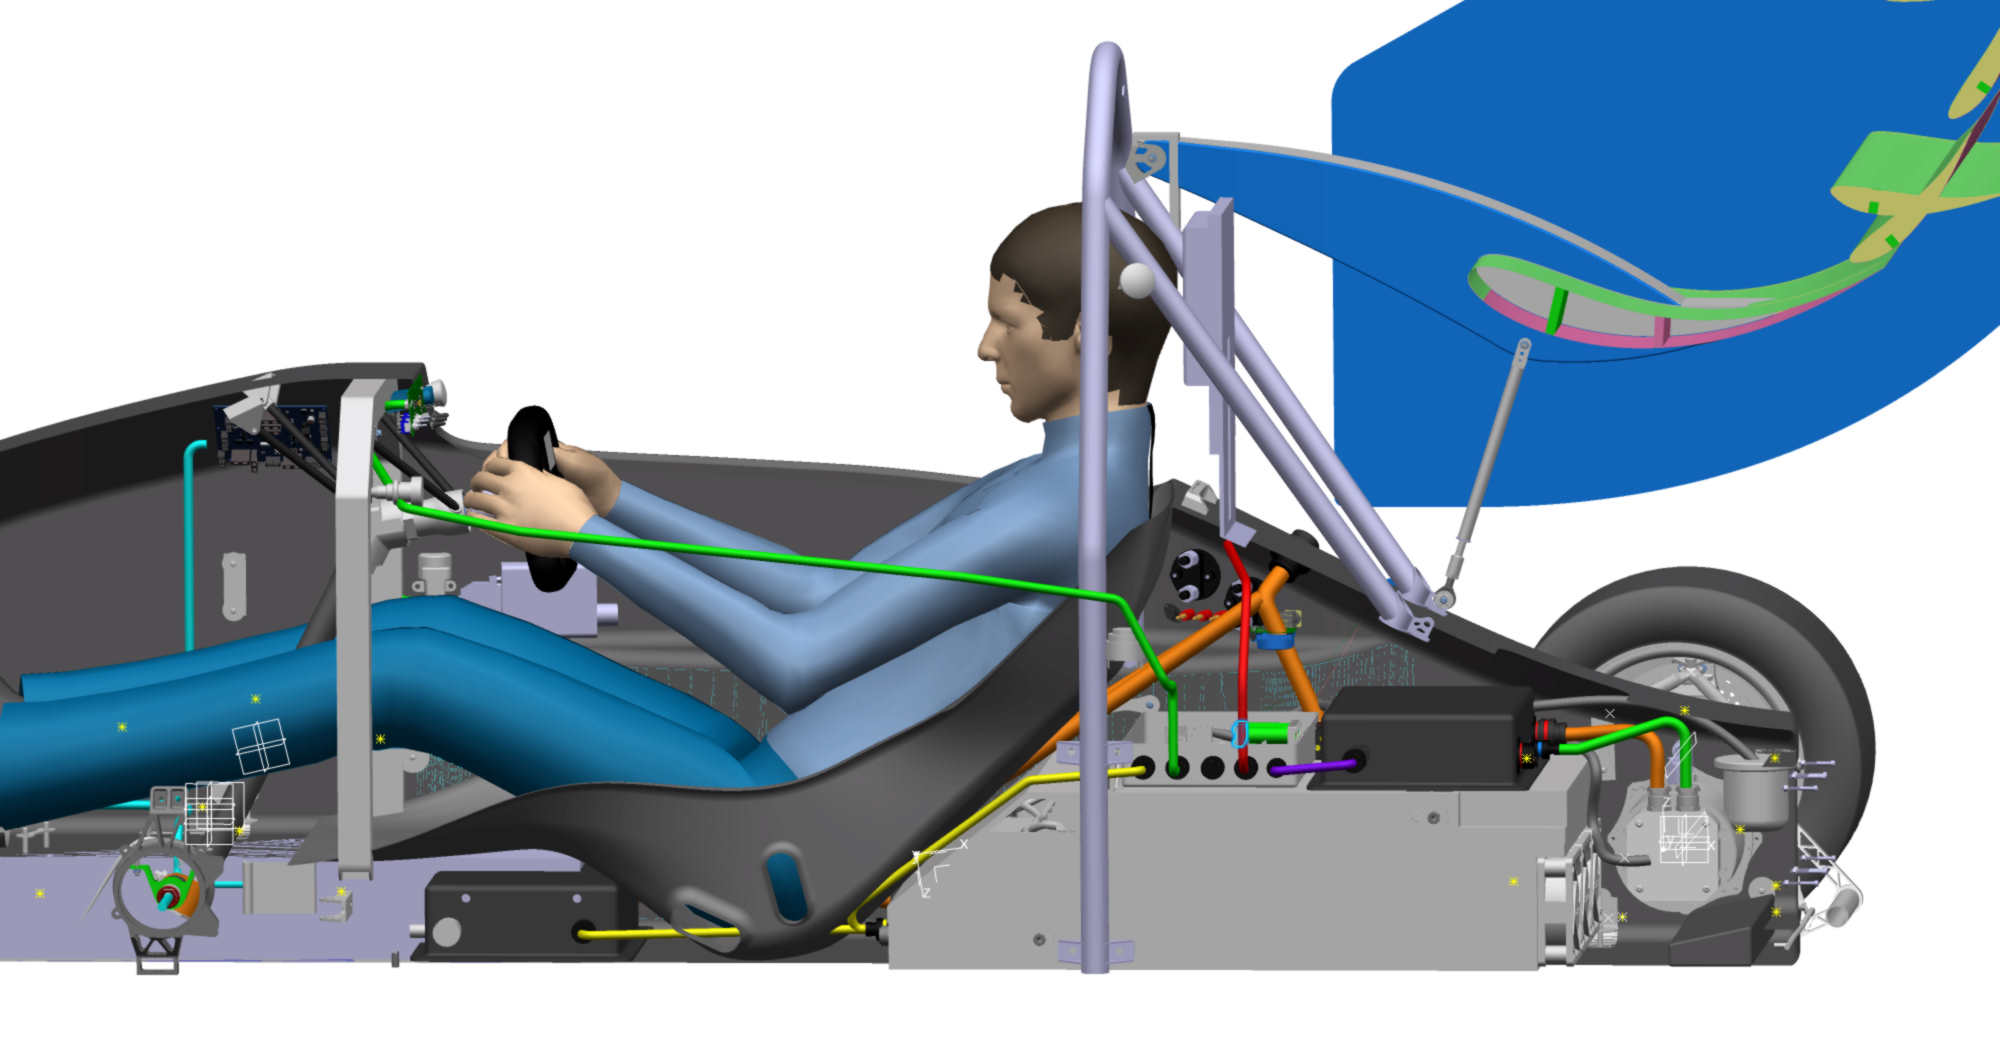
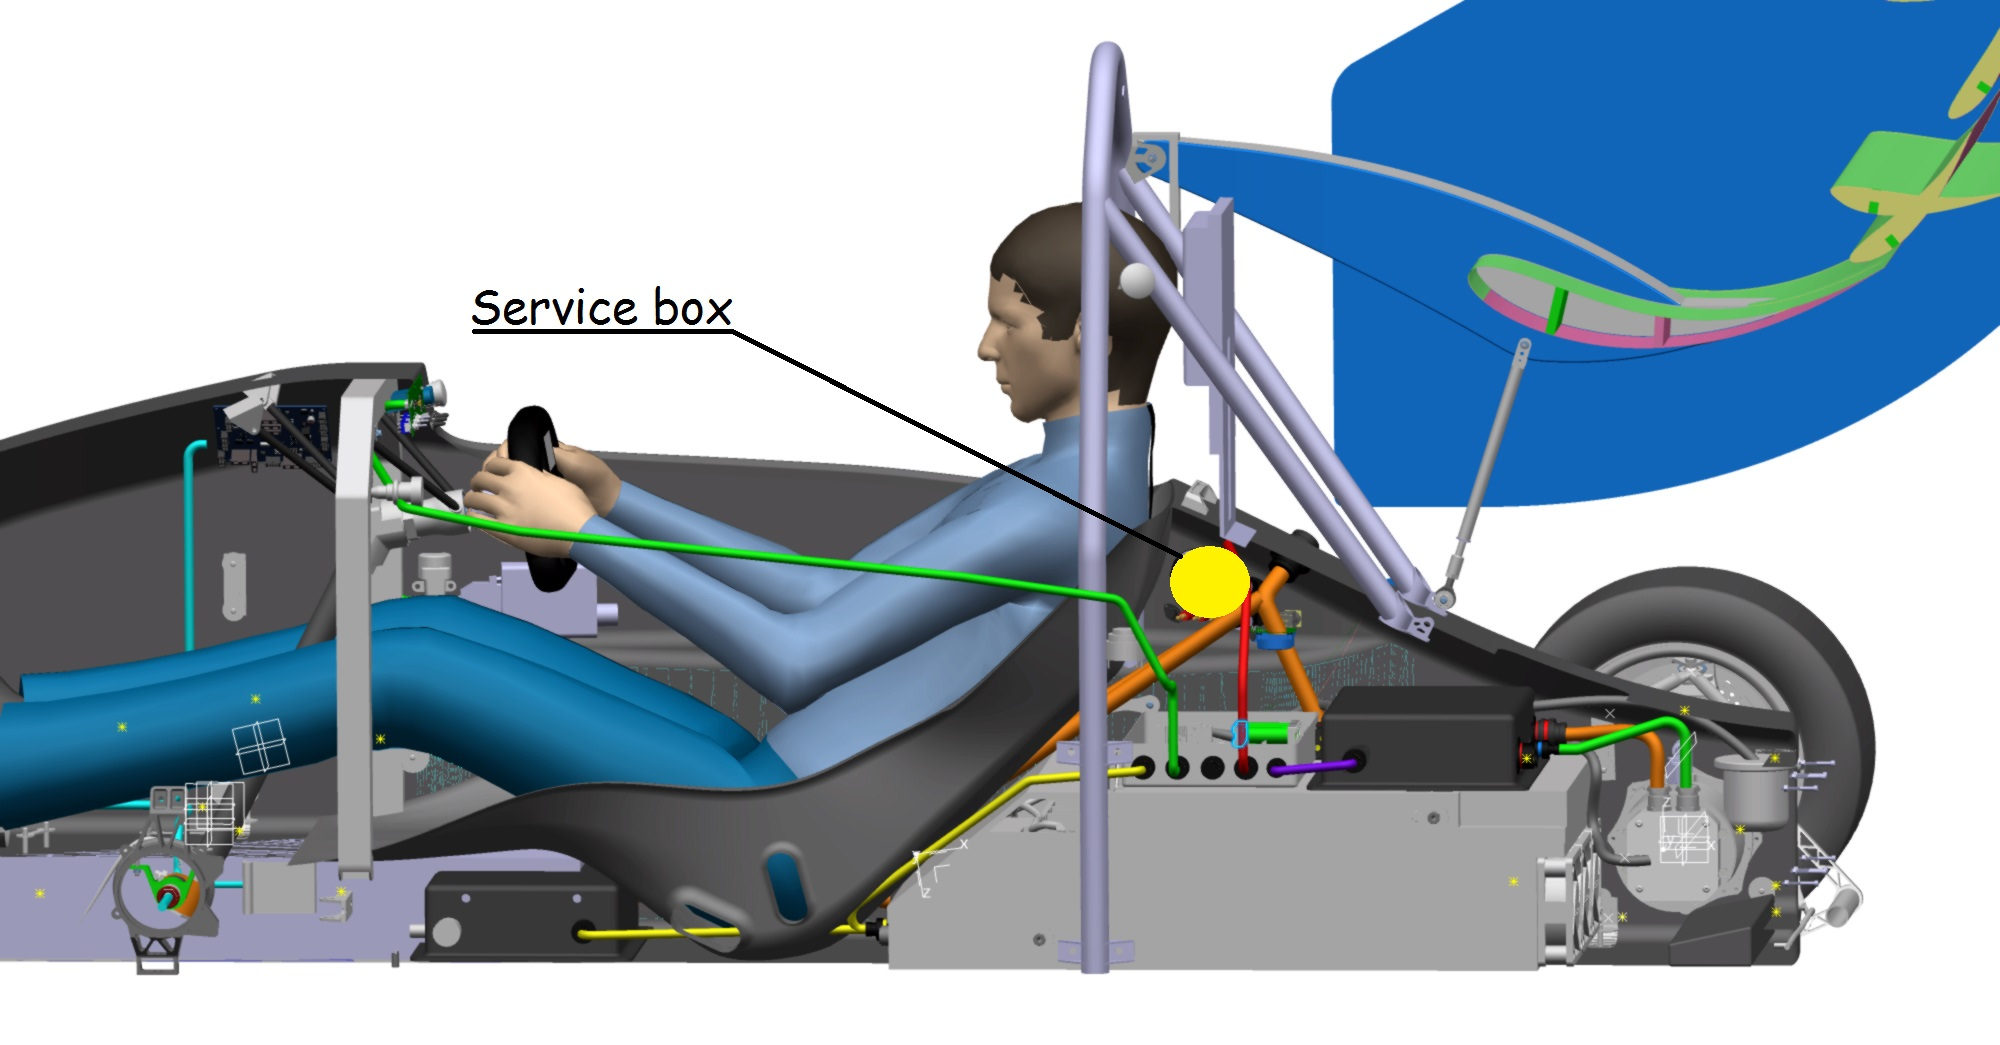
ACP

diff --git a/tex/AccumulatorPack1.tex b/tex/AccumulatorPack1.tex
@@ -1,6 +1,7 @@
 \subsubsection{Overview / description/parameters}
-Describe concept of accumulator pack, provide table with main parameters like number of cells, cell stacks separated by maintenance plugs, cell configuration, resulting voltages->minimum, maximum, nominal, currents, capacity etc.
-Fill out the following table:
+%Describe concept of accumulator pack, provide table with main parameters like number of cells, cell stacks separated by maintenance plugs, cell configuration, resulting voltages->minimum, maximum, nominal, currents, capacity etc.
+Our accumulator pack is designed using 18650 Li-ion cells in 6 stacks configuration, active cooled by air. The accumulator pack contains cells, AMS modules (slaves), ACP main control unit (AMS master) with DC/DC converter, IMD unit, cooling fans and current sensor. There is smaller insulated box inside the accumulator pack, that accomodates AIRs and main fuse.
+Details are filled in following table:
 
 \begin{table}[H]
 	\centering
@@ -32,8 +33,9 @@ Fill out the following table:
 \end{table}%
 
 \subsubsection{Cell description}
-Describe the cell type used and the chemistry, provide table with main parameters.
-Fill out the following table:
+%Describe the cell type used and the chemistry, provide table with main parameters.
+
+The used cell is the 18650 type cylindrical Li-ion cell. Detailed specification is shown in table below. Each cell has a CID (Circuit Interrupt Device) which disconnect the cell from others in parallel in case of cell failure (such an internal short circuit or over pressure) or in case of excessive discharge current. 
 
 \begin{table}[H]
 	\centering
@@ -128,9 +130,10 @@ Top and bottom view of one stack
 \end{table}%
 
 \subsubsection{Accumulator Management System}
-Describe the \gls{ams} used including at least the following:
+%Describe the \gls{ams} used including at least the following:
 
-% Table generated by Excel2LaTeX from sheet 'List1'
+Sem by to jeste chtelo neco napsat o pouzitem svabu.
+
 \begin{table}[H]
 	\centering
 	\caption{Cell voltage limits.}
@@ -180,7 +183,9 @@ Each \gls{ams} board senses whole stack, that means it senses 144 cells, connect
 
 
 \subsubsection{Accumulator indicator}
-Describe the indicator, show wiring, provide tables with operation, PCB design, etc
+%Describe the indicator, show wiring, provide tables with operation, PCB design, etc
+
+We use LED indicator placed on Accumulator pack chassis. The LED is powered by a separate circuit which is also used to power the TSAL. The circuit function explanation is shared with TSAL HV part. 
 
 \subsubsection{Wiring, cables, current calculations, connectors}
 %Describe the internal wiring, show schematics, provide calculations for currents and voltages and show data regarding the cables and connectors used.
@@ -215,14 +220,14 @@ To ensure that connectors will withstand in-rush currents, we did following calc
 \begin{figure}[H]
 	\centering
 	\includegraphics[width=\textwidth]{./img/ACP-nut.png}
-	\caption{Maintenance plugs I.}
+	\caption{Maintance plugs I.}
 	\label{fig:acp-maintance-plug}
 \end{figure}
 
 \begin{figure}[H]
 	\centering
 	\includegraphics[width=\textwidth]{./img/ACP-nut2.png}
-	\caption{Maintenance plugs II.}
+	\caption{Maintance plugs II.}
 	\label{fig:acp-maintance-plug2}
 \end{figure}
 
@@ -241,8 +246,9 @@ To ensure that connectors will withstand in-rush currents, we did following calc
 \end{figure}
 
 \subsubsection{Accumulator insulation relays}
-Describe the AIRs used and their main operation parameters, use tables, etc.
-Additionally, fill out the following table:
+%Describe the AIRs used and their main operation parameters, use tables, etc.
+
+We use Kilovac EV200 as AIRs, it is widely used standard contactor designed for EVs, working with inert gas atmosphere. Detailed specification is given in the folowing table:
 
 % Table generated by Excel2LaTeX from sheet 'List1'
 \begin{table}[H]
@@ -250,52 +256,56 @@ Additionally, fill out the following table:
 	\caption{Basic AIR data.}
 	\begin{tabularx}{\textwidth}{|X|X|}
 		\hline
-		Relay Type: &  \\[\TableSize]
+		Relay Type: & Kilovac EV200 \\[\TableSize]
 		\hline
-		Contact arrangement: &  \\[\TableSize]
+		Contact arragment: & SPST \\[\TableSize]
 		\hline
-		Continuous DC current rating: &  \\[\TableSize]
+		Continous DC current rating: & 500A \\[\TableSize]
 		\hline
-		Overload DC current rating:  &  \\[\TableSize]
+		Overload DC current rating:  & 2000A for 1sec \\[\TableSize]
 		\hline
-		Maximum operation voltage: &  \\[\TableSize]
+		Maximum operation voltage: & 900VDC \\[\TableSize]
 		\hline
-		Nominal coil voltage: &  \\[\TableSize]
+		Nominal coil voltage: & 24VDC \\[\TableSize]
 		\hline
-		Normal Load switching: & \\[\TableSize]
+		Normal Load switching: & Make and break up to 650A \\[\TableSize]
 		\hline
-		Maximum Load switching &  \\[\TableSize]
+		Maximum Load switching & 3 times at 2000A \\[\TableSize]
 		\hline
 	\end{tabularx}%
 	\label{tab:acc-air}%
 \end{table}%
 
 \subsubsection{Fusing}
-Describe the fuses used and their main operation parameters, use tables, etc.
-Additionally, fill out the following table for each fuse type used:
+%Describe the fuses used and their main operation parameters, use tables, etc.
+%Additionally, fill out the following table for each fuse type used:
+
+We use OEZ Varius P51T06 as the main fuse. It is intended to protect semiconductors. Both contactors and main fuse are enclosed in separate enclosure as it can be seen in the pictures above. Detailed specification is given in the folowing table:
 
 \begin{table}[H]
 	\centering
 	\caption{Basic fuse data}
 	\begin{tabularx}{\textwidth}{|X|X|}
 		\hline
-		Fuse manufacturer and type: &  \\[\TableSize]
+		Fuse manufacturer and type: & OEZ Varius P51T06 160A aR \\[\TableSize]
 		\hline
-		Continuous current rating:  &  \\[\TableSize]
+		Continous current rating:  & 160A \\[\TableSize]
 		\hline
-		Maximum operating voltage  &  \\[\TableSize]
+		Maximum operating voltage  & 440VDC \\[\TableSize]
 		\hline
-		Type of fuse: &  \\[\TableSize]
+		Type of fuse: & High speed for semiconductors \\[\TableSize]
 		\hline
-		I2t rating: &  \\[\TableSize]
+		I2t rating: & 3300A$^{2}$s \\[\TableSize]
 		\hline
-		Interrupt Current (maximum current at which the fuse can interrupt the current) &  \\[\TableSize]
+		Interrupt Current (maximum current at which the fuse can interrupt the current) & 50kA \\[\TableSize]
 		\hline
 	\end{tabularx}%
 	\label{tab:acc-fuse}%
 \end{table}%
 
-Create a table with components and wires protected by the fuse(s) and the according continuous current rating, below is an example table with some potential entries.  Complete this table with information for your design and add/remove additional locations as applicable.  Ensure that the rating of all the components is greater than the rating of the fuse such that none of the other components become the fuse.
+%Create a table with components and wires protected by the fuse(s) and the according continuous current rating, below is an example table with some potential entries.  Complete this table with information for your design and add/remove additional locations as applicable.  Ensure that the rating of all the components is greater than the rating of the fuse such that none of the other components become the fuse.
+
+Tohle je ještě potřeba vyplnit!
 
 % Table generated by Excel2LaTeX from sheet 'List1'
 \begin{table}[H]

diff --git a/tex/AccumulatorPack2.tex b/tex/AccumulatorPack2.tex
@@ -28,4 +28,6 @@ TODO: connector XT-60, fuse atd.
 \end{table}%
 
 \subsubsection{Position in car}
-Provide CAD-renderings showing all relevant parts. Mark the parts in the rendering, if necessary.
+%Provide CAD-renderings showing all relevant parts. Mark the parts in the rendering, if necessary.
+
+GLVS accumulator is placed inside ECUB box.

diff --git a/tex/Appendix.tex b/tex/Appendix.tex
@@ -50,7 +50,8 @@ Full datasheet at: \url{http://power.murata.com/data/power/ncl/kdc_nme.pdf}
 	\label{app:mr}
 \end{figure}
 
-\subsection{Firewall}
+%\subsection{Firewall}
+
 
 \subsection{Discharge resistors datasheet}\label{app:discharge_resistor_sheet}
 	\includepdf[pages=-,pagecommand={},width=\textwidth]{./dsh/discharge_resistor.pdf}
